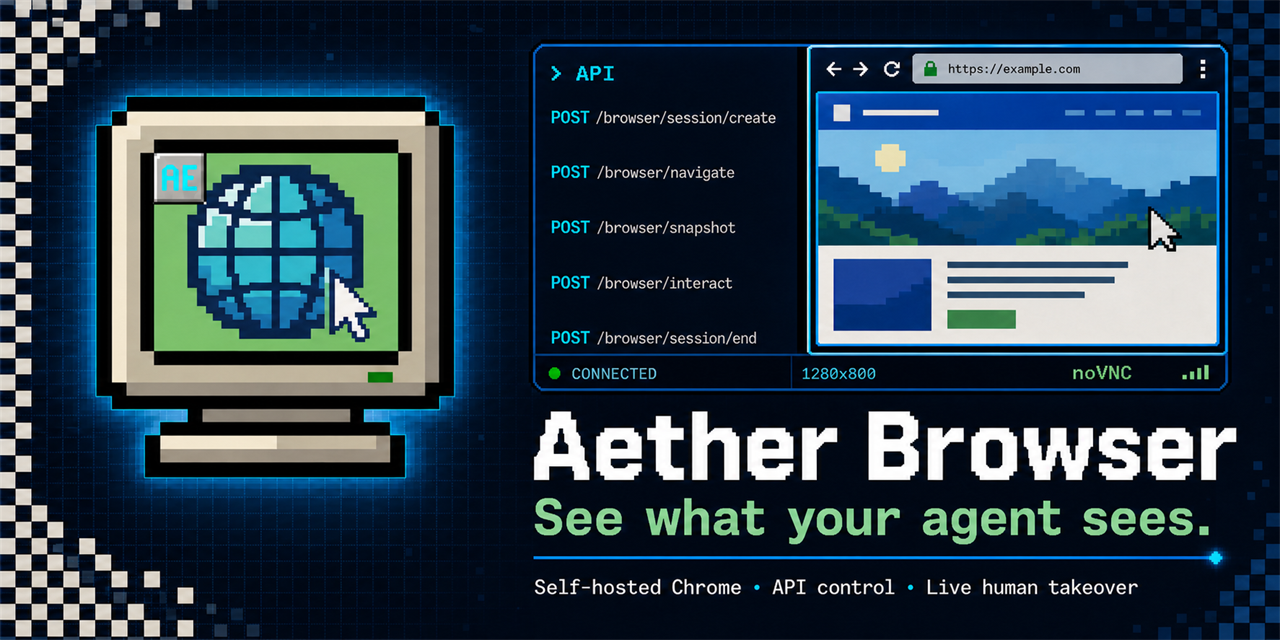
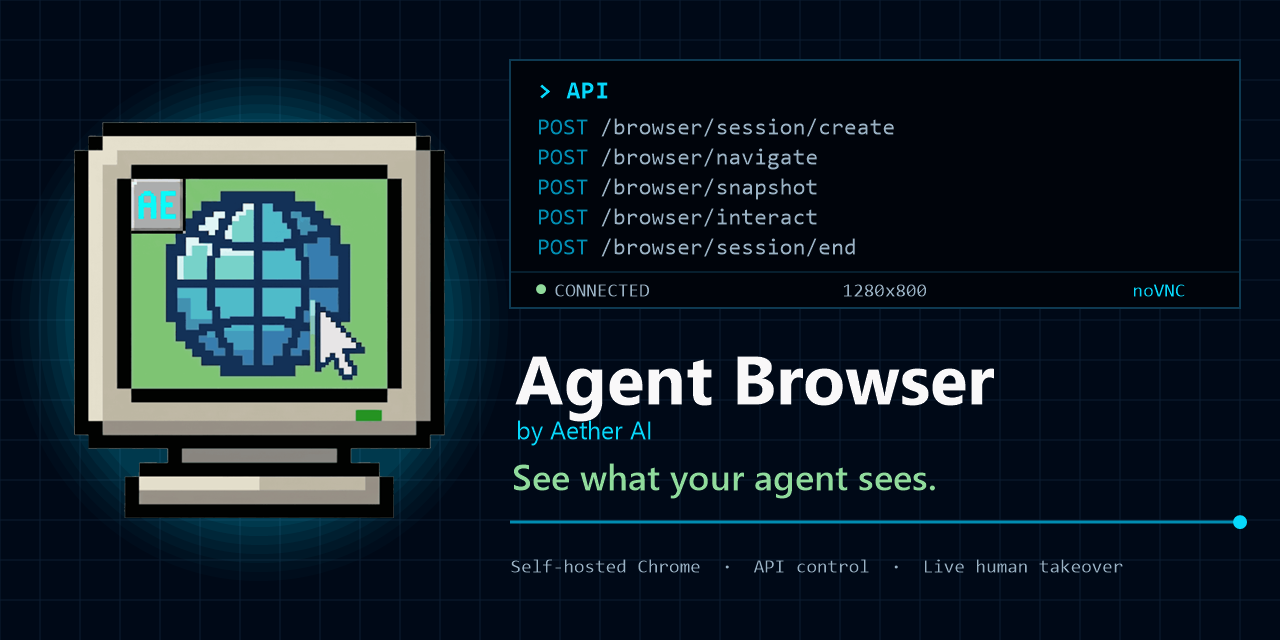
Rebuild the social card for Agent Browser (#33)
The 1280x640 social preview still carried the old "Aether Browser"
wordmark as pixel-font text, so it contradicted every other surface and
also opened the generated demo video.

Regenerate the card programmatically from the committed transparent logo
plus flat shapes and text: product name, the "by Aether AI" vendor line,
the tagline, a decorative API panel, and the existing footer. The panel
lists only routes the v0.1 surface actually implements
(session/create, navigate, snapshot, interact, session/end), and its
status strip is styling rather than a captured readout, which the
provenance section now states.

Dimensions stay exactly 1280x640 as the asset gate requires. Update the
recorded social-preview checksum and rewrite the provenance section to
describe how both images are now produced.

diff --git a/docs/DEMO_EVIDENCE.md b/docs/DEMO_EVIDENCE.md
@@ -22,7 +22,7 @@ asset and is not runtime proof.
 | Capture operator | Automated `release-evidence` workflow on a GitHub-hosted `ubuntu-24.04` runner; no interactive operator step |
[4 lines of base64/hex data omitted]
 
 ## How the media was produced
 
@@ -74,17 +74,21 @@ click returns.
 
 ## Social-preview provenance
 
-The preview was derived from the owner-supplied Agent Browser artwork. That artwork was
-originally committed as a JPEG carrying a painted-on transparency checkerboard and a dashed
-border, neither of which was real transparency. The committed logo is now
-`assets/agent-browser-logo.png`, SHA-256
[1 lines of base64/hex data omitted]
-alpha channel, the painted border removed, and the palette flattened to 64 colours to clear JPEG
-ringing. The generated 2:1 preview artwork was mechanically resized to the required 1280x640
-PNG. Its visible API panel uses only the implemented v0.1 routes, and its footer states: “Self-hosted Chrome · API control · Live human
-takeover.” `docs/assets/` contains byte-identical publication copies of the logo and preview so a
-`/docs` Pages build cannot escape its source root. The artwork depicts the product contract but is
-not itself a record of a live run.
+The committed logo is `assets/agent-browser-logo.png`, SHA-256
[1 lines of base64/hex data omitted]
+owner-supplied artwork, which had previously been committed as a JPEG carrying a transparency
+checkerboard and a dashed border painted into its pixels rather than a real alpha channel. The
+committed PNG is 848x904, has a genuine alpha channel, drops the painted border, and uses a
+64-colour palette so that JPEG ringing no longer blurs the pixel-art edges.
+
+`assets/social-preview.png` is a generated 1280x640 brand card, not a screenshot and not runtime
+proof. It is composed programmatically from the committed logo plus flat vector shapes and text:
+the product name, the vendor line, the tagline, a decorative API panel, and the footer
+"Self-hosted Chrome · API control · Live human takeover". The API panel lists only routes that the
+v0.1 surface actually implements, and its "CONNECTED / 1280x800 / noVNC" strip is decorative
+styling rather than a captured session readout. `docs/assets/` holds byte-identical publication
+copies of both images so a `/docs` Pages build cannot escape its source root. The card depicts
+the product contract but is not itself a record of a live run.
 
 ## Observation record
 
